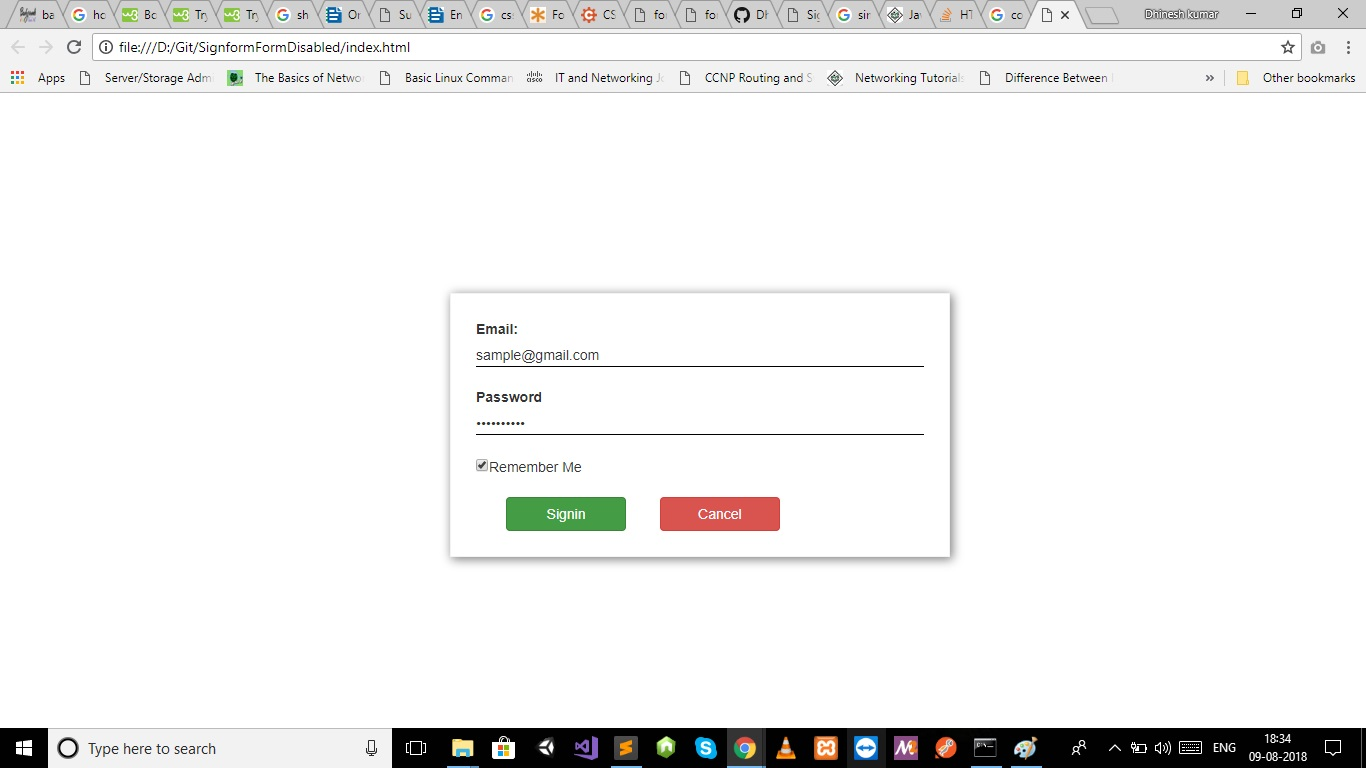
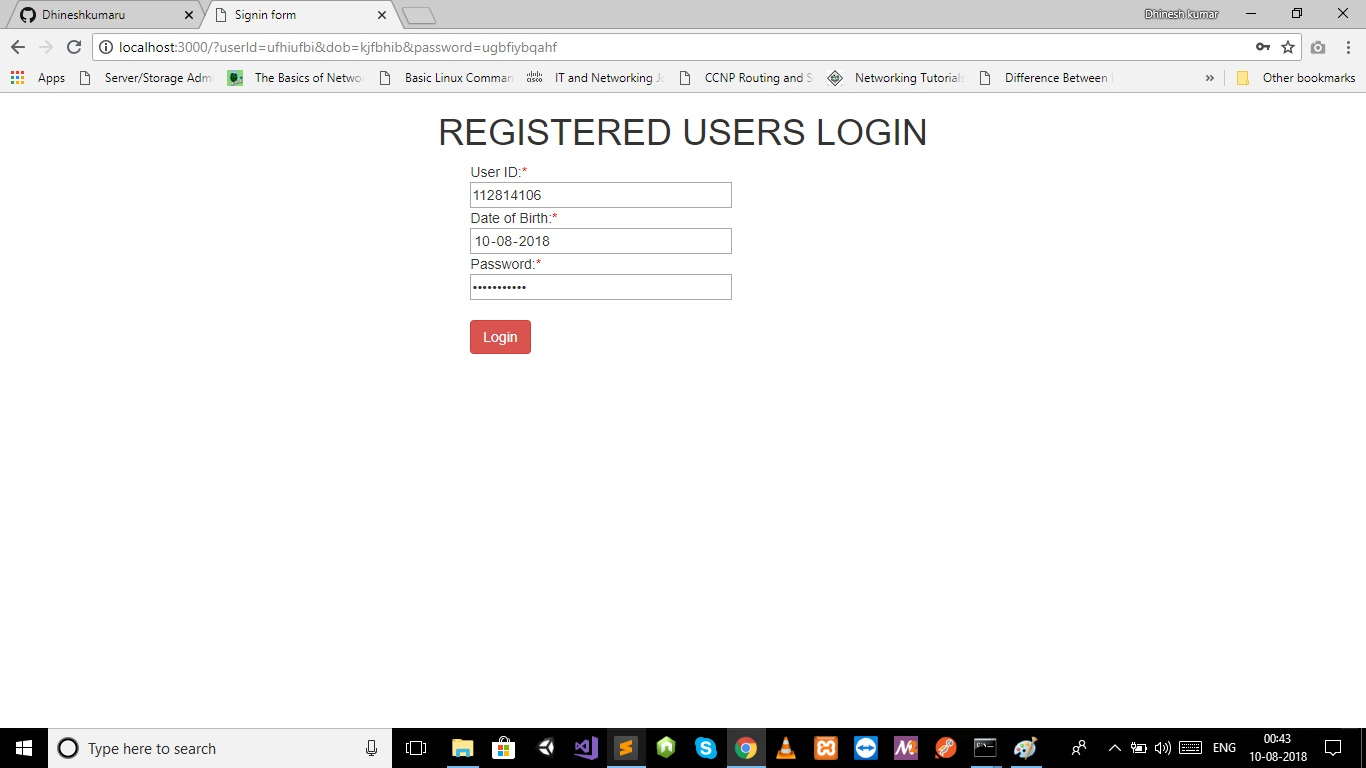
Login form with border validation

diff --git a/index.html b/index.html
@@ -6,22 +6,28 @@
 	<link rel="stylesheet" href="https://maxcdn.bootstrapcdn.com/bootstrap/3.3.7/css/bootstrap.min.css">
 </head>
 <body>
-<div class="box">
-	<form onchange="validateForm()" name="signinForm">
-		<div class="input-field">
-			<label>Email:</label>
-			<input type="email" name="Email" class="input" required>
-		</div>
-		<div class="input-field">
-			<label>Password</label>
-			<input type="password" name="Password" class="input" required>
-		</div>
-		<div class="input-field">
-			<input type="checkbox" name="Remember Me"><labe>Remember Me</labe>
-		</div>
-		<div class="btns">
-			<button class="btn btn-success" id="signinBtn">Signin</button>
-			<button class="btn btn-danger">Cancel</button>
+<div class="form-center">
+	<h1 style="text-align:center;">REGISTERED USERS LOGIN</h1>
+	<form name="signupForm">
+		<div class="container-fluid">
+			<div class="row">
+				<div class="col-md-2"></div>
+				<div class="col-md-2" >
+				</div>
+				<div class="col-md-6">
+					<span>User ID:</span><span class="star-color">*</span><br>
+					<input type="text" name="userId" onblur="fieldValidation('userId')"
+					 id="userId" required><br>
+					<span>Date of Birth:</span><span class="star-color">*</span><br>
+					<input type="date" name="dob"  onblur="fieldValidation('dob')"
+					 id="dob" required><br>
+					<span>Password:</span><span class="star-color">*</span><br>
+					<input type="password" name="password" onblur="fieldValidation('password')"
+					 id="password" required><br><br>
+					<button class="btn btn-danger">Login</button>
+				</div>
+				<div class="col-md-2"></div>
+			</div>
 		</div>
 	</form>
 </div>

diff --git a/styles/common.css b/styles/common.css
@@ -1,27 +1,13 @@
-.input {
-  border: 0;
-  outline: 0;
-  background: transparent;
-  width: 100%;
-  border-bottom: 1px solid black;
+input {
+  width: 40%;
 }
-
-.box {
-	margin-left: 450px;
-	margin-top: 200px;
-	background-color: #fff;
-	width: 500px;
-	padding: 25px;
-	border: 1px solid #f2f3f4;
-	box-shadow: 2px 2px 15px gray;
+/*.form-center {
+	text-align: center;
 }
-
-.input-field {
-	margin-bottom: 20px;
+*/
+.star-color {
+	color: red;
 }
-
-.btn {
-	align-content: right;
-	margin-left: 30px;
-	width: 120px;
+.borderColor {
+	border-color: red;
 }

diff --git a/scripts/common.js b/scripts/common.js
@@ -1,12 +1,8 @@
-var signinBtn = document.getElementById('signinBtn');
-signinBtn.disabled = true;
-
-
-function validateForm() {
-	var form  = document.forms['signinForm'];
-	if(form.checkValidity()) {
-		signinBtn.disabled = false;
+function fieldValidation(field) {
+	var formField = document.forms["signupForm"][field];
+	if(!formField.checkValidity()) {
+		document.getElementById(field).className = "borderColor";
 	} else {
-		signinBtn.disabled = true;
+		document.getElementById(field).className = "";
 	}
 }
